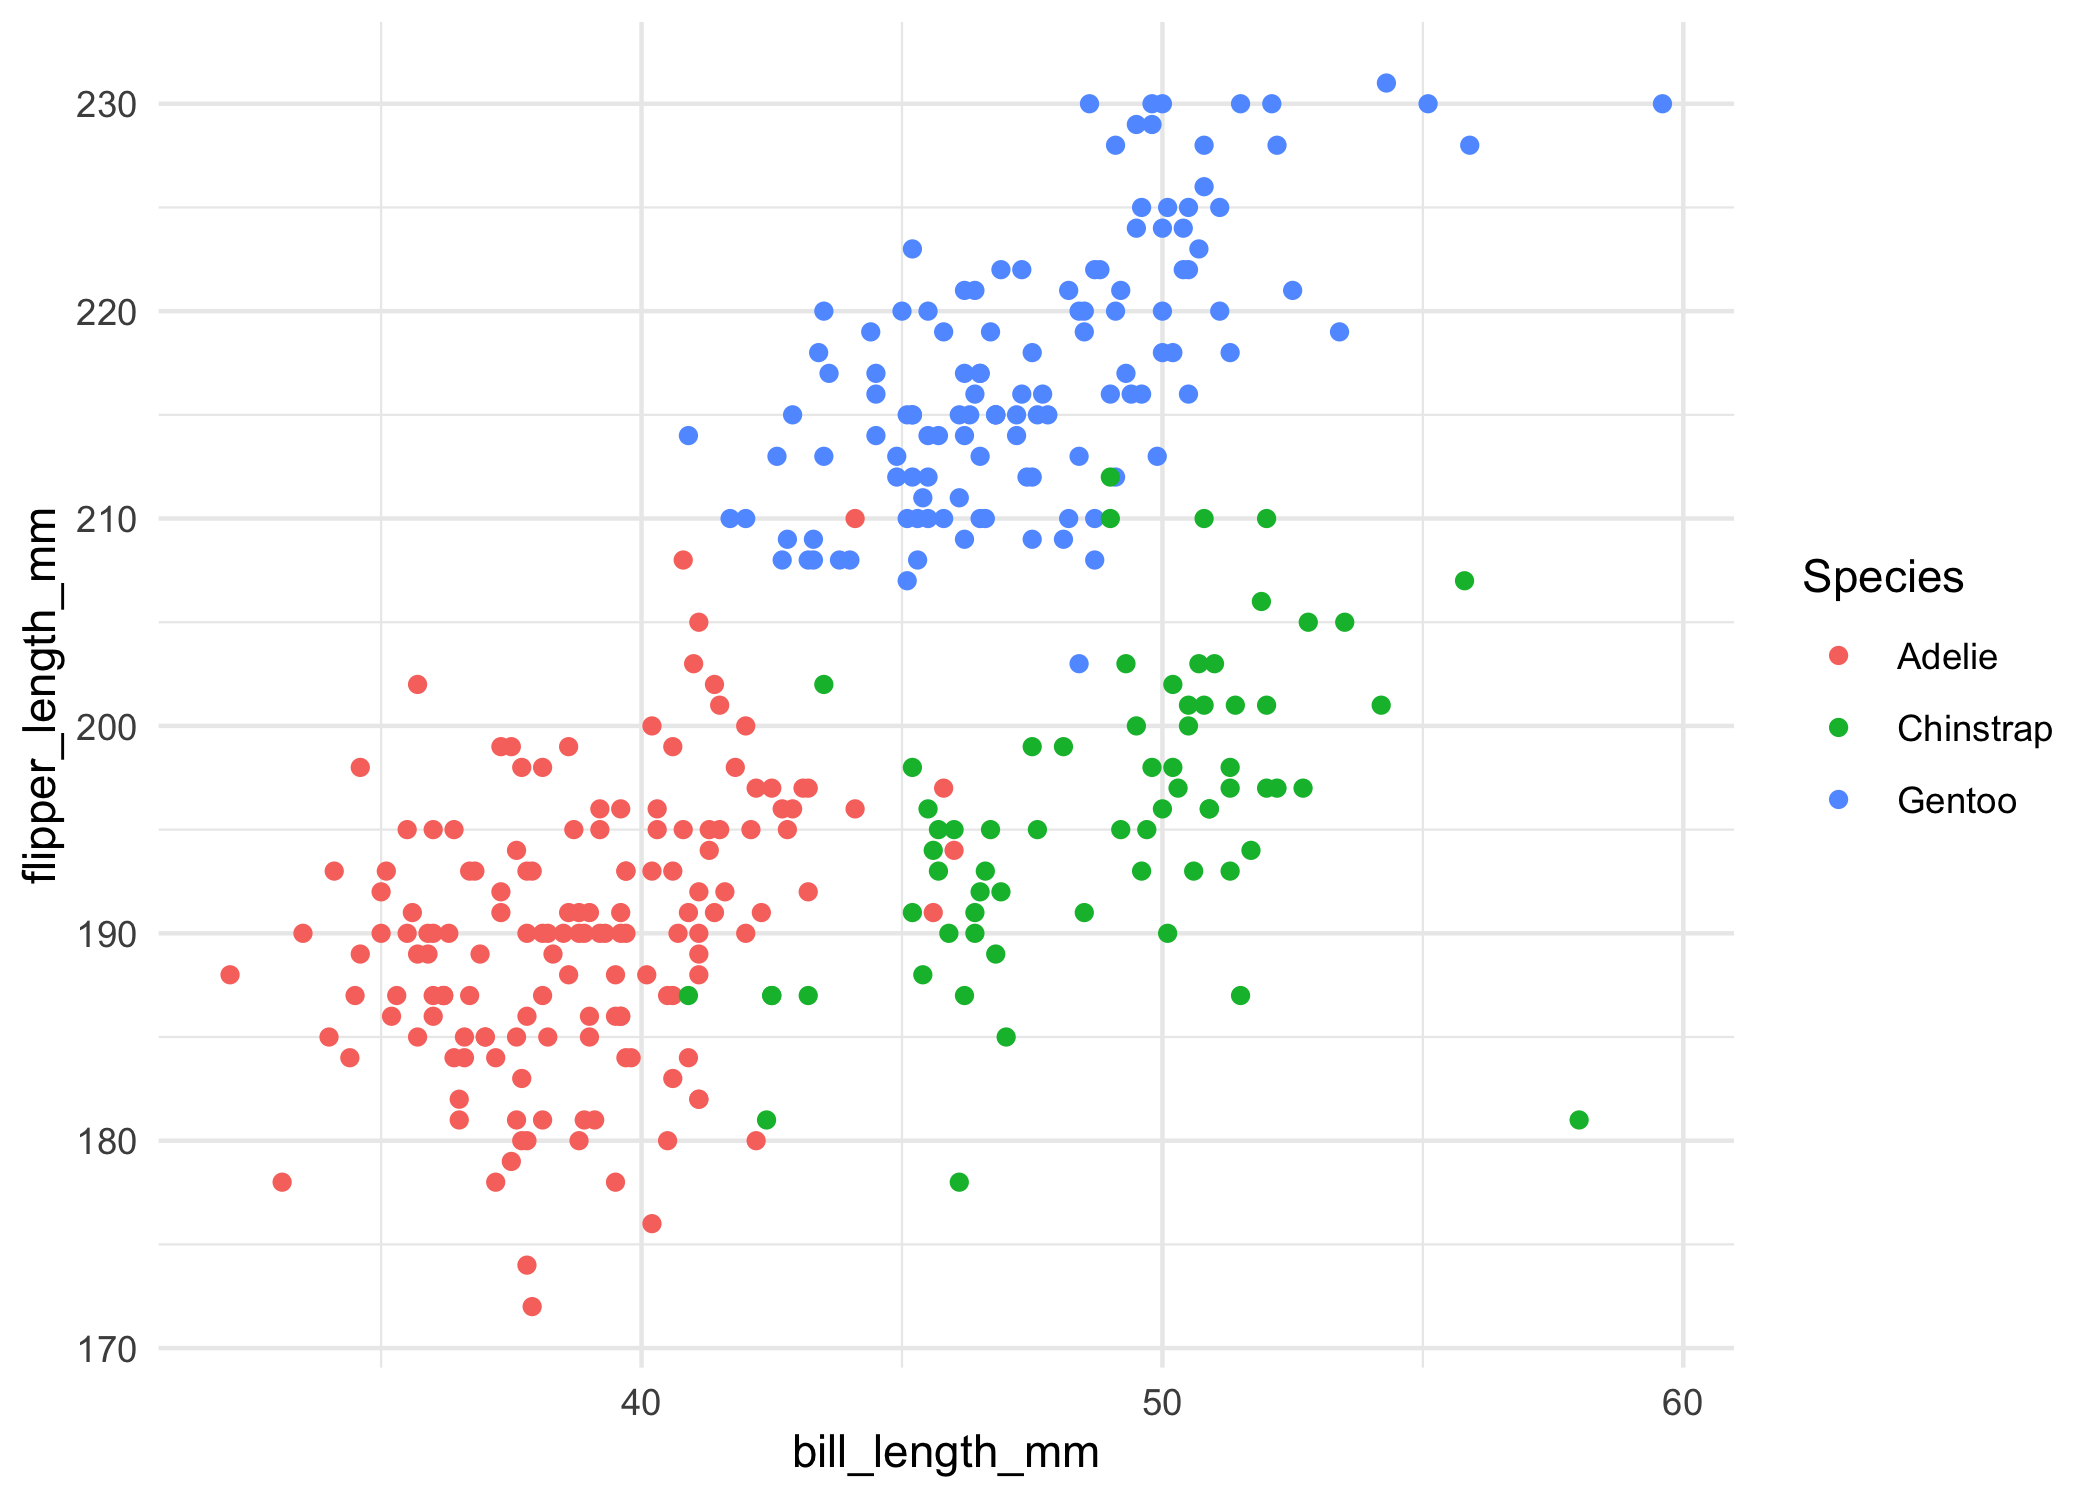
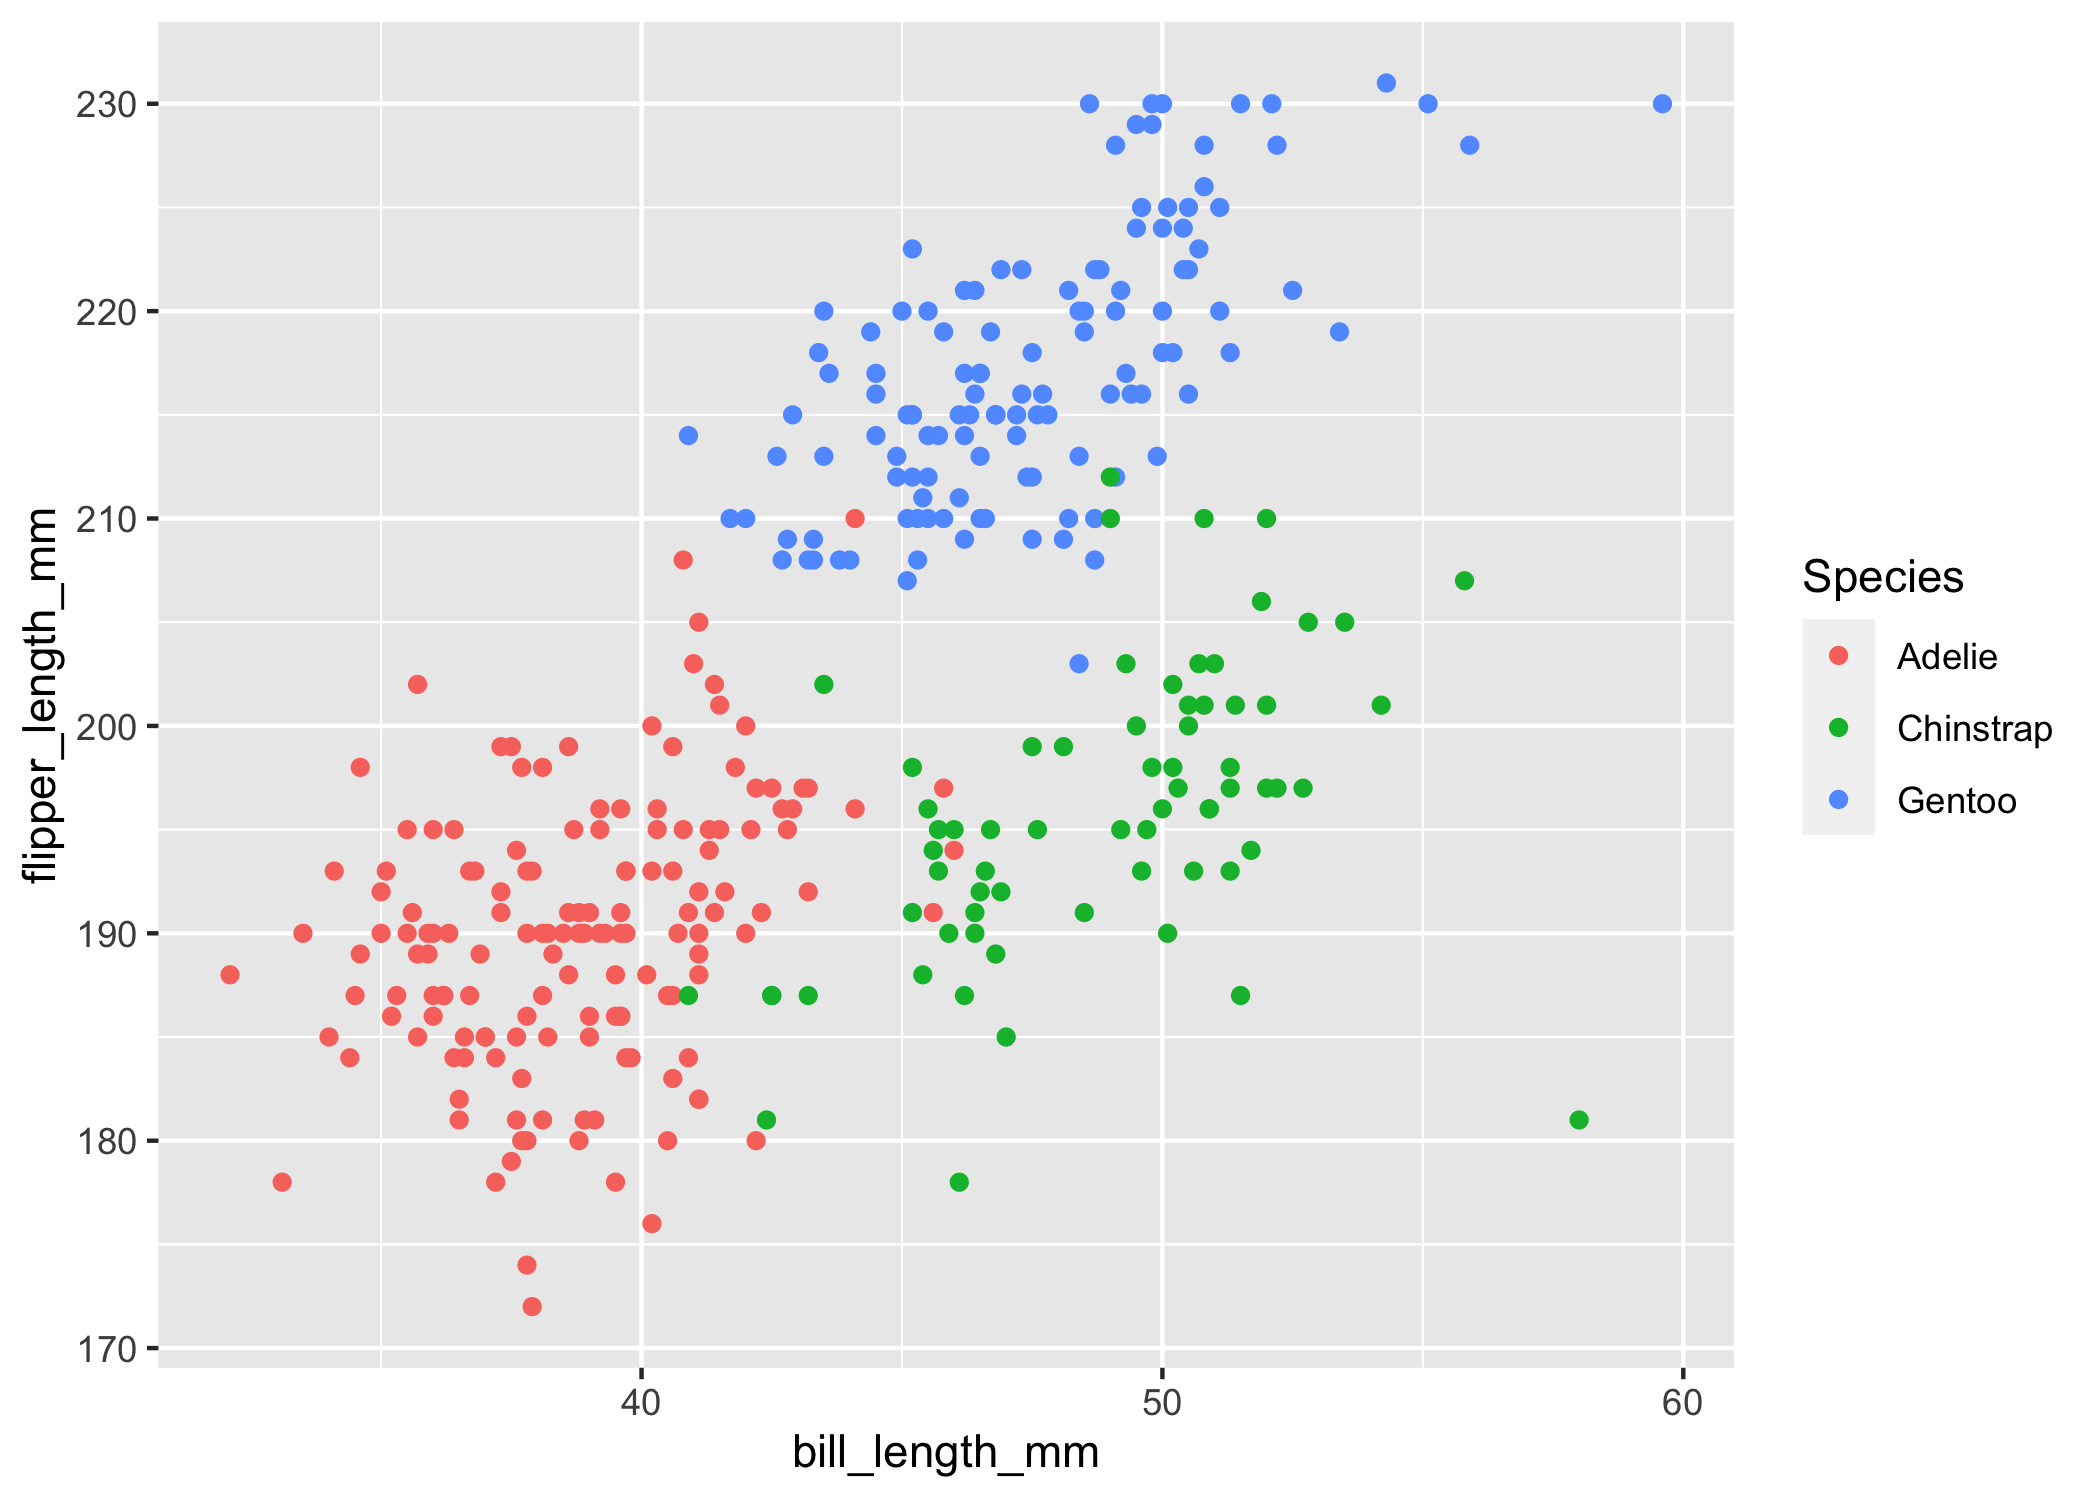
removed theme on plot

diff --git a/p8105_hw1_jak2312.md b/p8105_hw1_jak2312.md
@@ -45,7 +45,7 @@ Try mean() for each variable in prob1\_df:
 mean(pull(prob1_df,samp))
 ```
 
-    ## [1] -0.3498353
+    ## [1] -0.02766709
 
 ``` r
 mean(pull(prob1_df, samp_pos))
@@ -106,8 +106,8 @@ the logic vector in numbers then calculated the mean.
 as.numeric(pull(prob1_df, samp_pos)) * pull(prob1_df, samp)
 ```
 
-    ##  [1] 0.0000000 0.2639061 0.0000000 0.0000000 1.6973907 0.0000000 0.0000000
-    ##  [8] 1.4367653 0.0000000 0.0000000
+    ##  [1] 0.0000000 0.0000000 0.0000000 1.0122648 2.2318833 0.9820901 0.0000000
+    ##  [8] 0.0000000 0.0000000 0.0000000
 
 ``` r
 as.factor(pull(prob1_df, samp_pos)) * pull(prob1_df, samp)
@@ -122,8 +122,8 @@ as.factor(pull(prob1_df, samp_pos)) * pull(prob1_df, samp)
 as.numeric(as.factor(pull(prob1_df, samp_pos))) * pull(prob1_df, samp)
 ```
 
-    ##  [1] -2.0362853  0.5278121 -1.6309880 -1.0140679  3.3947813 -0.7956229
-    ##  [7] -1.1576378  2.8735306 -0.1031301 -0.1586830
+    ##  [1] -0.60208257 -0.56721539 -0.82733598  2.02452957  4.46376669  1.96418021
+    ##  [7] -0.48446532 -1.45003577 -0.52552518 -0.04624895
 
 ## Problem 2
 
@@ -165,7 +165,6 @@ library (ggplot2)
 ``` r
 ggplot(penguins, aes(x = bill_length_mm, y = flipper_length_mm, color = factor(species))) + 
   geom_point() + 
-  theme_minimal() +
   labs(color = "Species")
 ```
 
